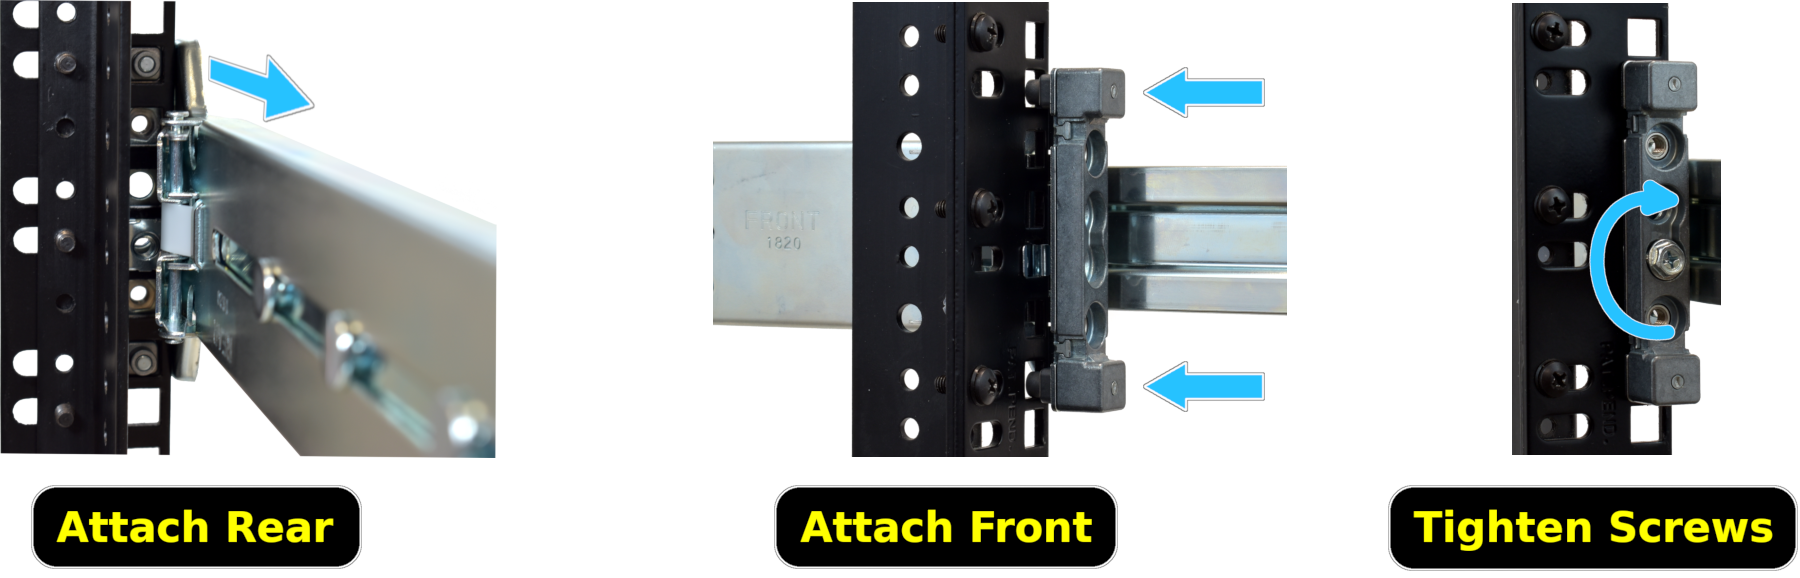
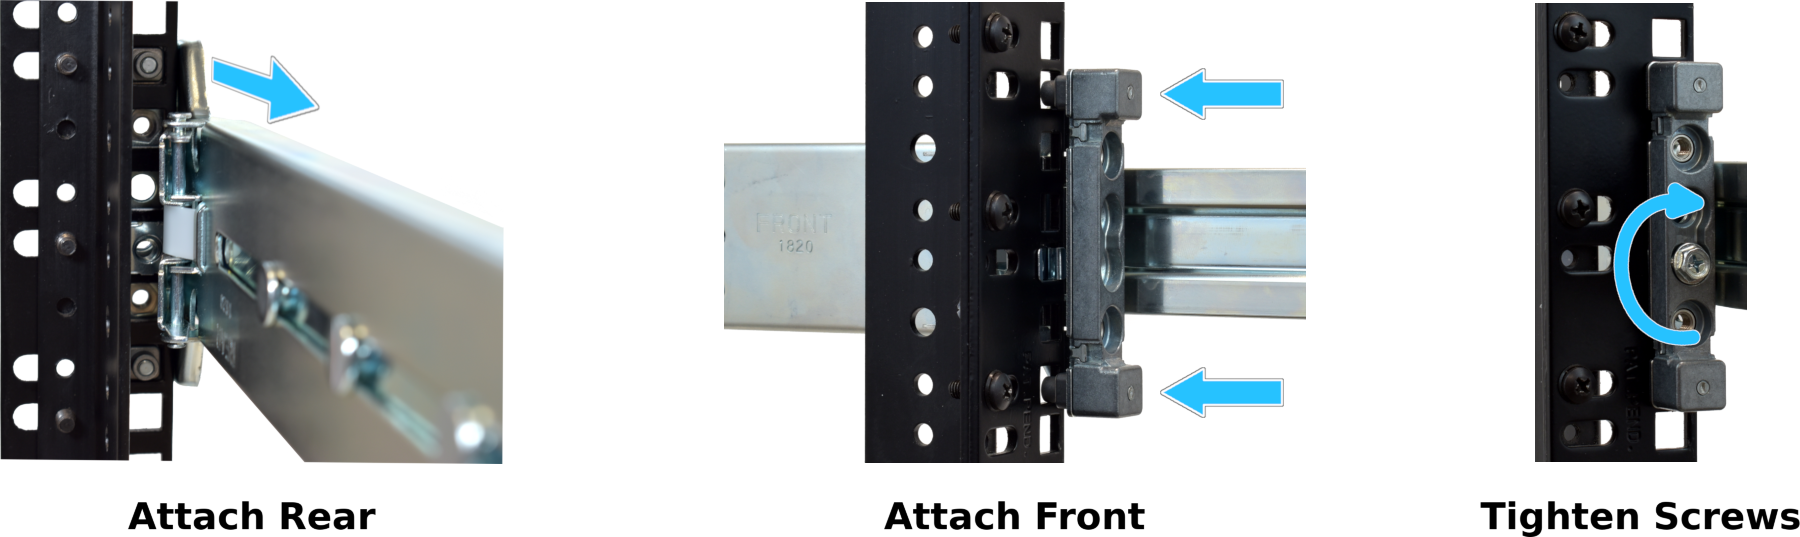
Clarify images and text

diff --git a/userguide/snippets/es60.rst b/userguide/snippets/es60.rst
@@ -102,7 +102,7 @@ process for the second rail.
 
 
 .. figure:: images/tn_es60_rail_separate.png
-   :width: 100%
+   :width: 85%
 
 
 
@@ -115,26 +115,28 @@ the rail toward the rear of the system until the metal tab clicks and
 secures the rail in place. Repeat this process on the other side.
 
 .. figure:: images/tn_es60_cabinetrails.png
-   :width: 100%
+   :width: 85%
 
 
 Mount Rack Rails
 ^^^^^^^^^^^^^^^^
 
-Install four cage nuts inside the rack, two where the rails attach to
+Cage nuts for racks with square and round holes are included. Install
+four cage nuts inside the rack, two where the rails attach to
 the front of the rack, and two at the rear. Align each cage nut with
 the others, both front to back and left to right. The cage nuts
 provide an attachment point inside the rack for the rail screws.
 
-Place the rail in the rack with the front end toward the front of the
-rack and rear toward the back of the rack. Align the pins on both rail
-ends with the mounting holes in the rack. Make sure the attached cage
-nuts are lined up with the rail holes. Push the pins into the rack holes
-until they lock in place. Use the provided screws to secure the rails to
-the cage nuts.
+The rail ends are stamped "Front" and "Rear". Place one rail in the
+rack with the "Front" stamp at the front facing outward. The "Rear"
+stamp goes at the back of the rack. Align the pins on both rail
+ends with the mounting holes in the rack. Make sure the cage nuts line
+up with the rail holes. Push the pins into the rack holes until they
+lock in place. Use the provided screws to secure the rails to the cage
+nuts.
 
 .. figure:: images/tn_es60_rackrails.png
-   :width: 100%
+   :width: 85%
 
 
 Mount Unit in the Rack
